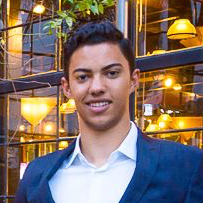
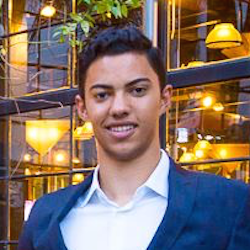
pics

diff --git a/src/pages-style.css b/src/pages-style.css
@@ -149,3 +149,8 @@ h4>span {
     border-left-style: solid;
     border-left-width: 1px;
 }
+
+.uk-overlay img {
+    width: 100%;
+    height: 100%;
+}
